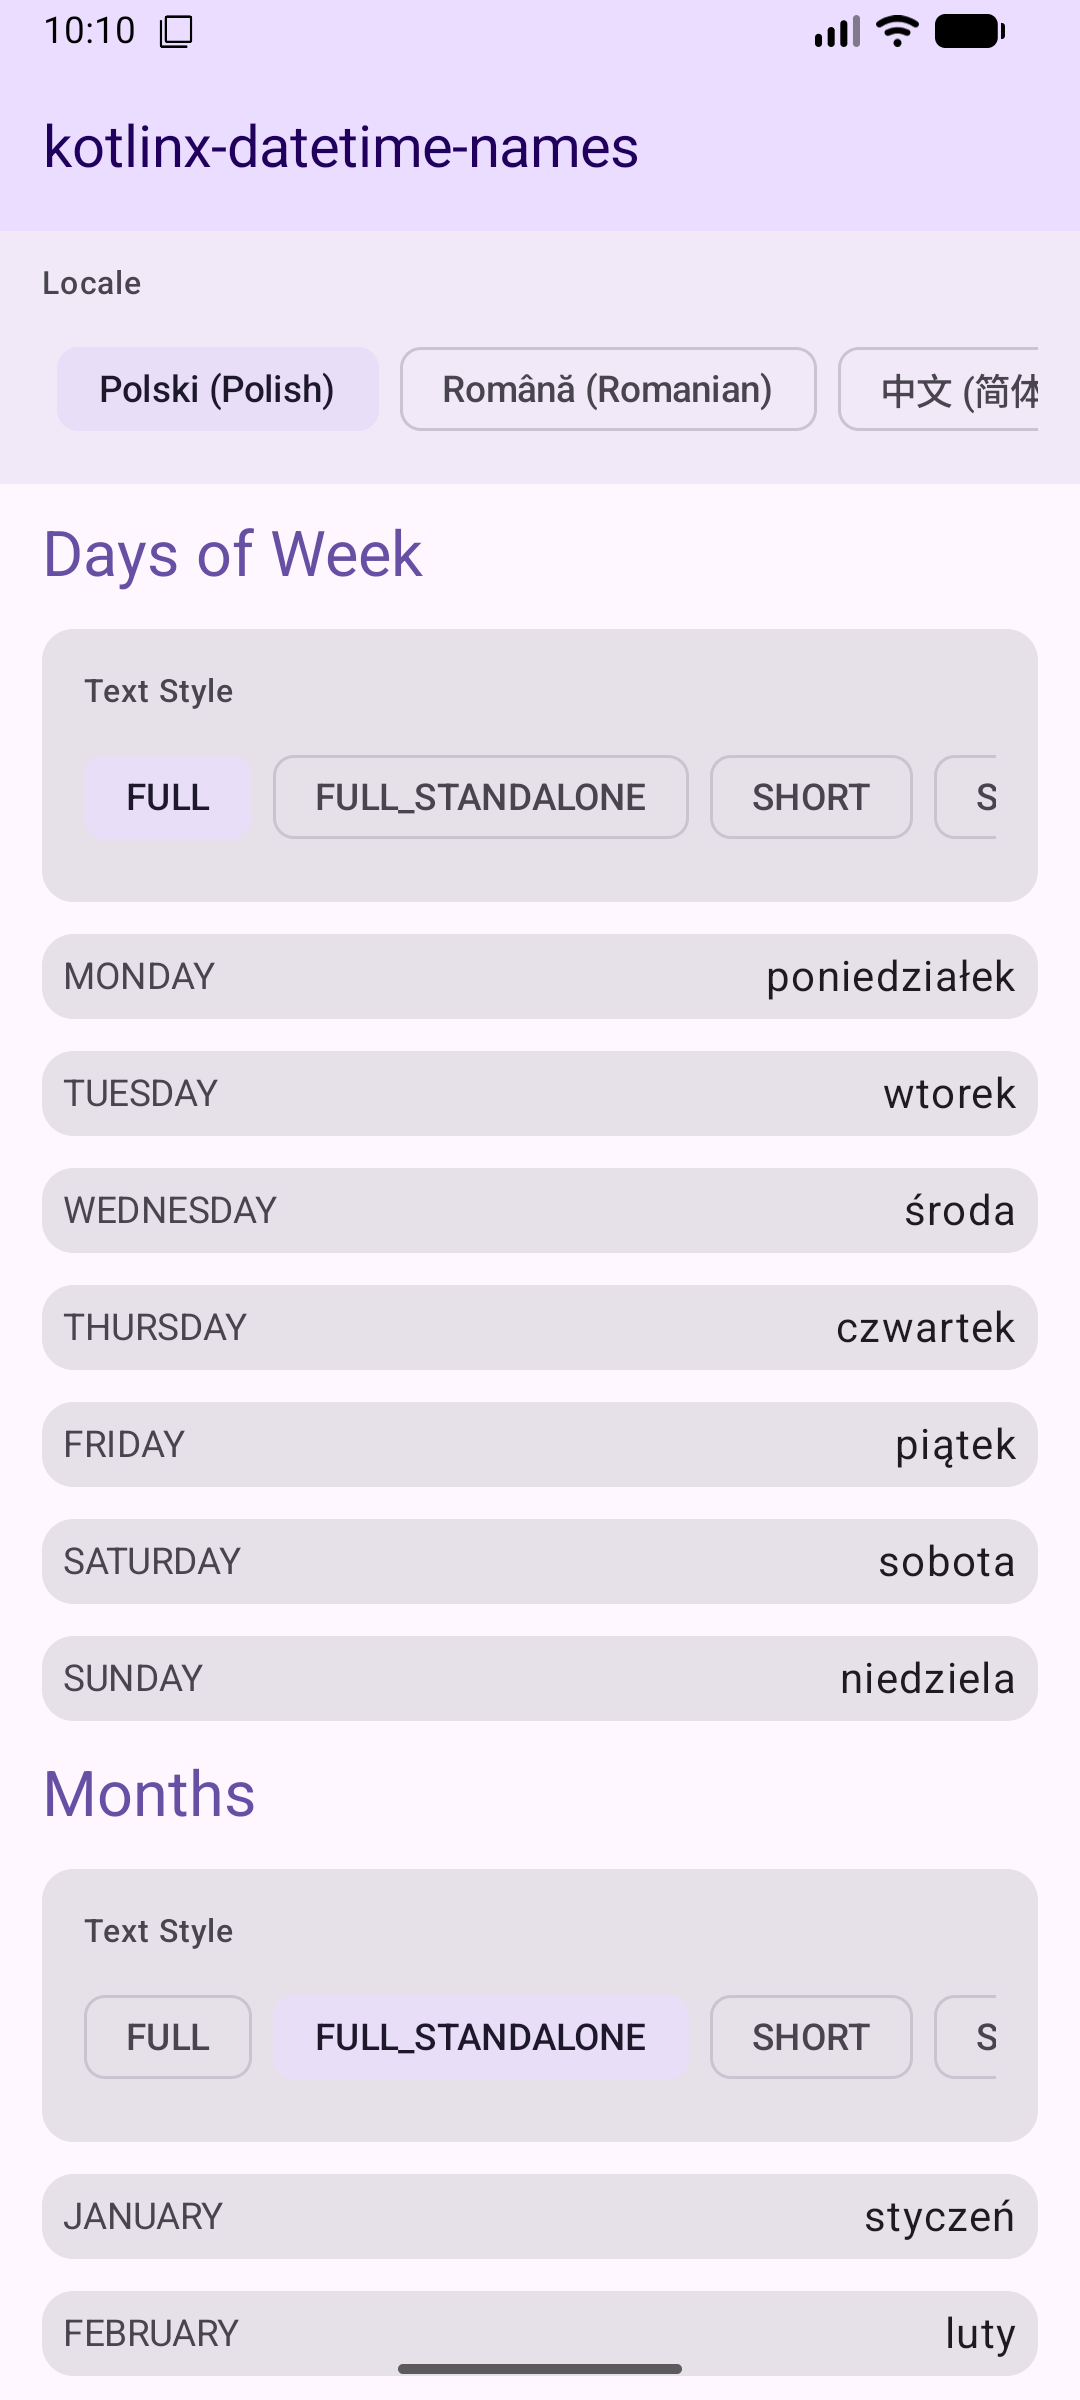
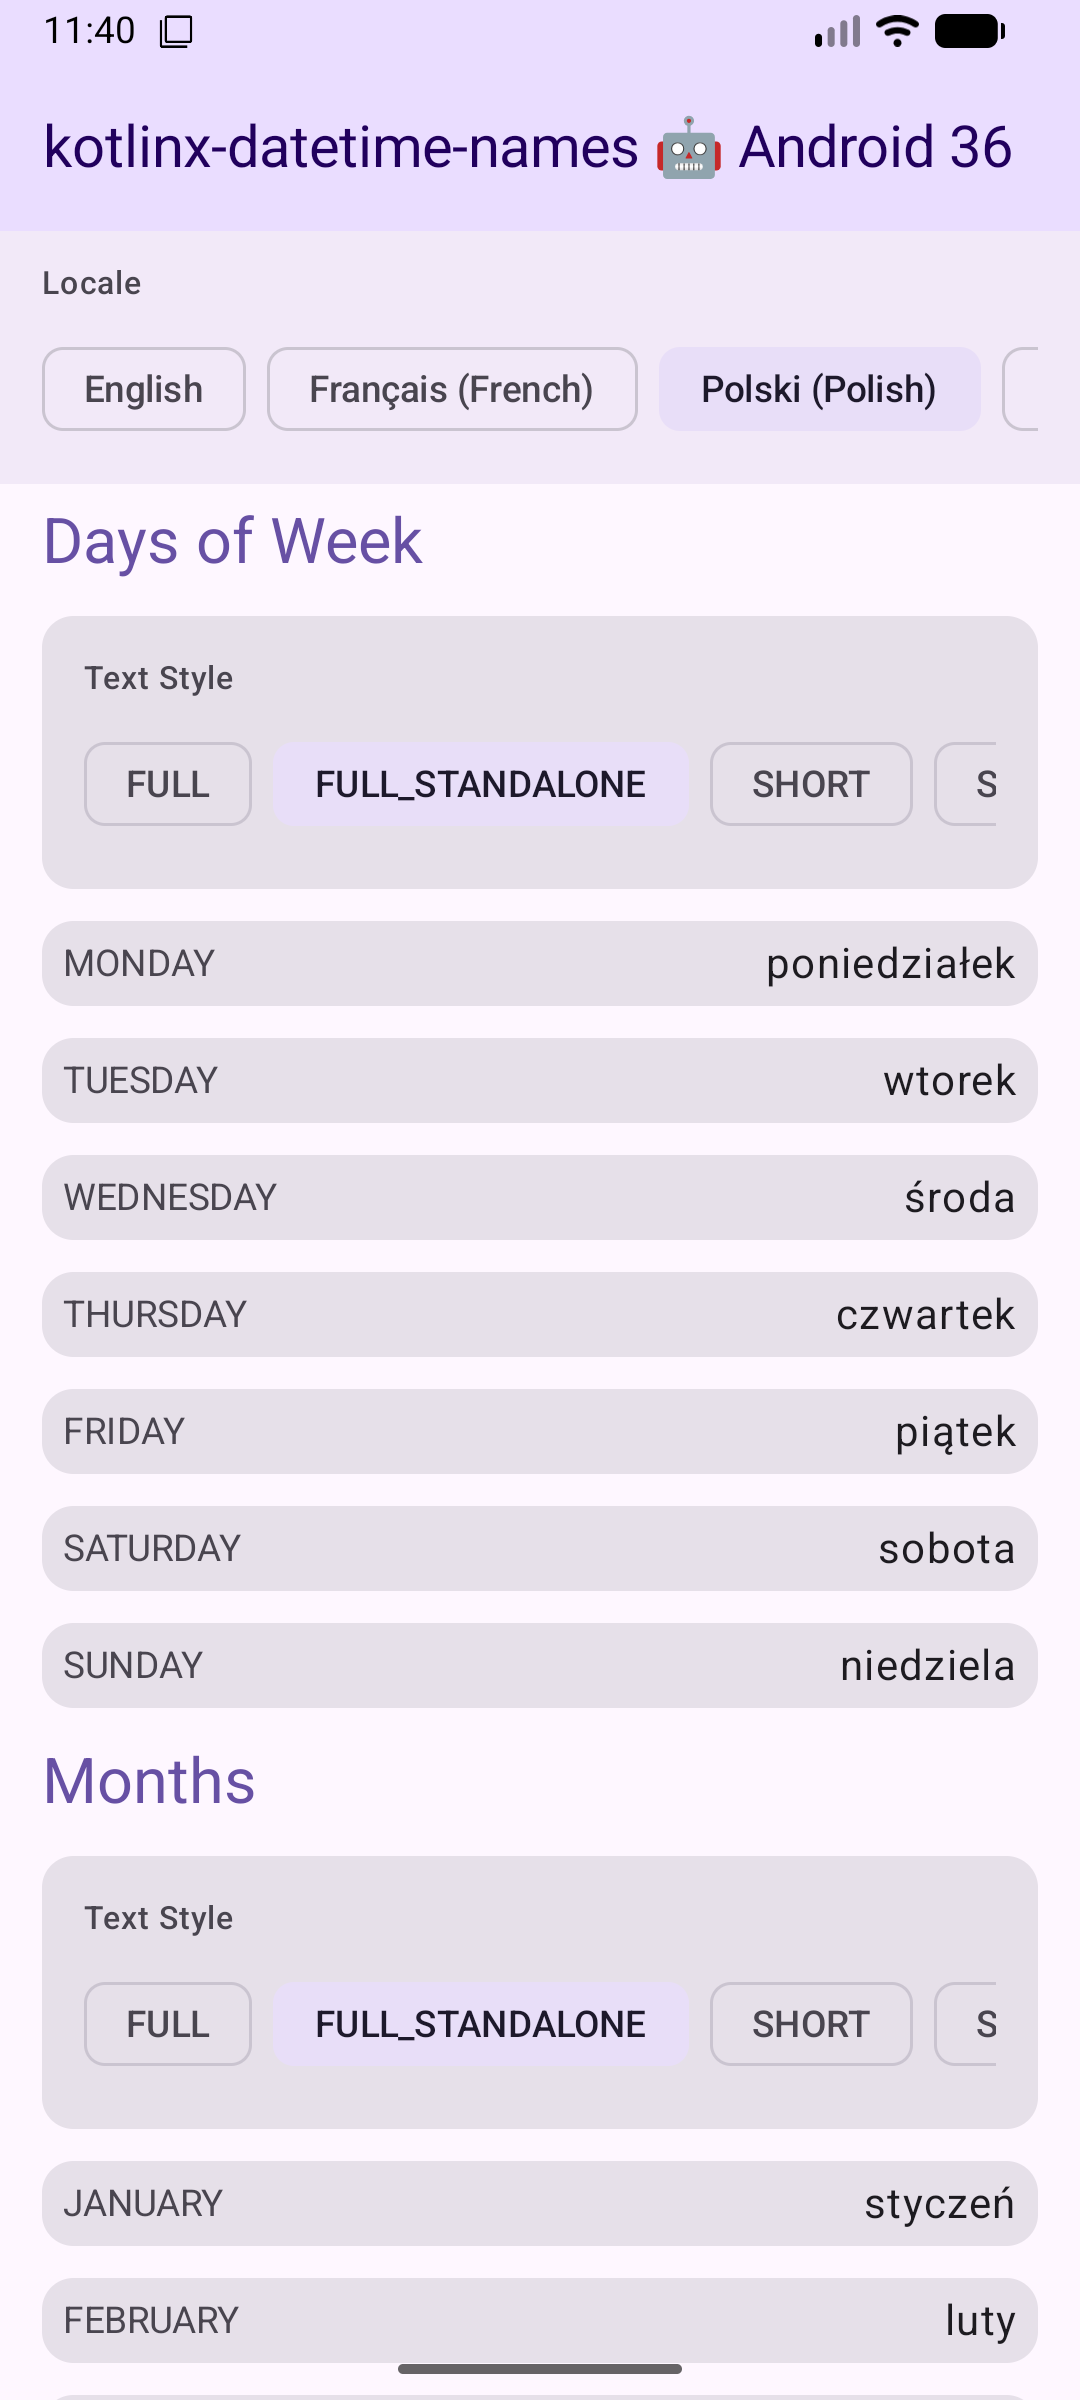
chore: update demo, readme and screenshots

diff --git a/demo/src/commonMain/kotlin/io/github/adrcotfas/datetime/names/App.kt b/demo/src/commonMain/kotlin/io/github/adrcotfas/datetime/names/App.kt
@@ -35,7 +35,10 @@ fun App() {
             topBar = {
                 Column {
                     TopAppBar(
-                        title = { Text("kotlinx-datetime-names") },
+                        title = {
+                            val platform = getPlatform()
+                            Text("kotlinx-datetime-names ${platform.emoji} ${platform.name}")
+                        },
                         colors =
                             TopAppBarDefaults.topAppBarColors(
                                 containerColor = MaterialTheme.colorScheme.primaryContainer,
@@ -60,18 +63,6 @@ fun App() {
                         .padding(horizontal = 16.dp, vertical = 8.dp),
                 verticalArrangement = Arrangement.spacedBy(12.dp),
             ) {
-                // Platform info
-                Card(
-                    modifier = Modifier.fillMaxWidth(),
-                ) {
-                    Column(modifier = Modifier.padding(16.dp)) {
-                        Text(
-                            text = "Running on: ${getPlatform().name}",
-                            style = MaterialTheme.typography.titleMedium,
-                        )
-                    }
-                }
-
                 // DateTime Formatting Demo
                 DateTimeFormattingSection(
                     selectedLocale = selectedLocale,

diff --git a/demo/src/iosMain/kotlin/io/github/adrcotfas/datetime/names/Platform.ios.kt b/demo/src/iosMain/kotlin/io/github/adrcotfas/datetime/names/Platform.ios.kt
@@ -4,6 +4,7 @@ import platform.UIKit.UIDevice
 
 class IOSPlatform : Platform {
     override val name: String = UIDevice.currentDevice.systemName() + " " + UIDevice.currentDevice.systemVersion
+    override val emoji: String = "🍎"
 }
 
 actual fun getPlatform(): Platform = IOSPlatform()

diff --git a/demo/src/androidMain/kotlin/io/github/adrcotfas/datetime/names/Platform.android.kt b/demo/src/androidMain/kotlin/io/github/adrcotfas/datetime/names/Platform.android.kt
@@ -4,6 +4,7 @@ import android.os.Build
 
 class AndroidPlatform : Platform {
     override val name: String = "Android ${Build.VERSION.SDK_INT}"
+    override val emoji: String = "🤖"
 }
 
 actual fun getPlatform(): Platform = AndroidPlatform()

diff --git a/demo/src/commonMain/kotlin/io/github/adrcotfas/datetime/names/Platform.kt b/demo/src/commonMain/kotlin/io/github/adrcotfas/datetime/names/Platform.kt
@@ -2,6 +2,7 @@ package io.github.adrcotfas.datetime.names
 
 interface Platform {
     val name: String
+    val emoji: String
 }
 
 expect fun getPlatform(): Platform

diff --git a/README.md b/README.md
@@ -3,7 +3,7 @@
 [![Maven Central](https://img.shields.io/maven-central/v/io.github.adrcotfas/kotlinx-datetime-names)](https://central.sonatype.com/artifact/io.github.adrcotfas/kotlinx-datetime-names)
 [![License](https://img.shields.io/badge/License-Apache%202.0-blue.svg)](https://opensource.org/licenses/Apache-2.0)
 
-A Kotlin Multiplatform library that provides localized display names for [kotlinx-datetime](https://github.com/Kotlin/kotlinx-datetime) types.  
+A Kotlin Multiplatform library that provides localized display names for [kotlinx-datetime](https://github.com/Kotlin/kotlinx-datetime) types.
 See https://github.com/Kotlin/kotlinx-datetime/pull/586 too.
 
 ## What is it?
@@ -123,7 +123,7 @@ dateTime.format(
 ## Demo
 The library includes a demo app that showcases localized names across different locales and text styles.
 
-<img src="images/demo_android_localdate.png" alt="Android Demo" height="650"/> <img src="images/demo_ios_localdate.png" alt="iOS Demo" height="650"/>  
+<img src="images/demo_android_datetime.png" alt="Android Demo" height="650"/> <img src="images/demo_ios_datetime.png" alt="iOS Demo" height="650"/>
 <img src="images/demo_android_names.png" alt="Android Demo" height="650"/> <img src="images/demo_ios_names.png" alt="iOS Demo" height="650"/>
 
 ## License
